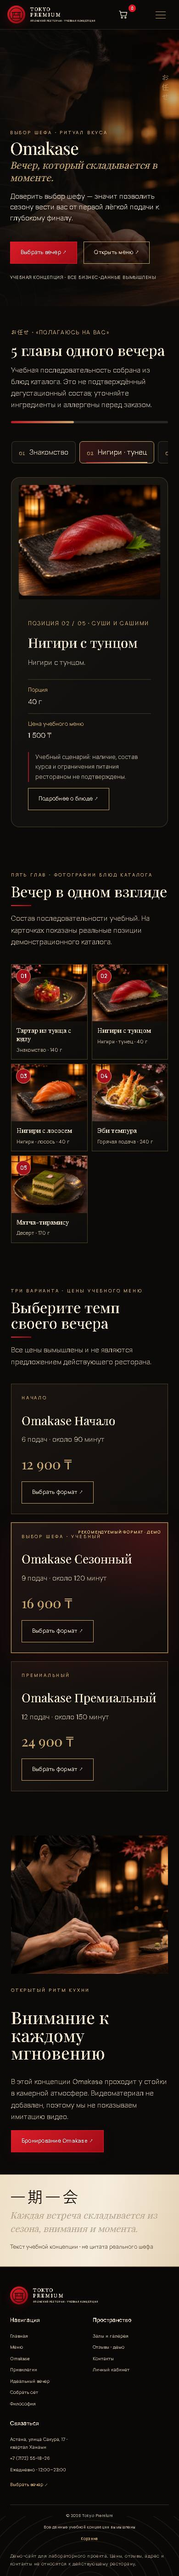
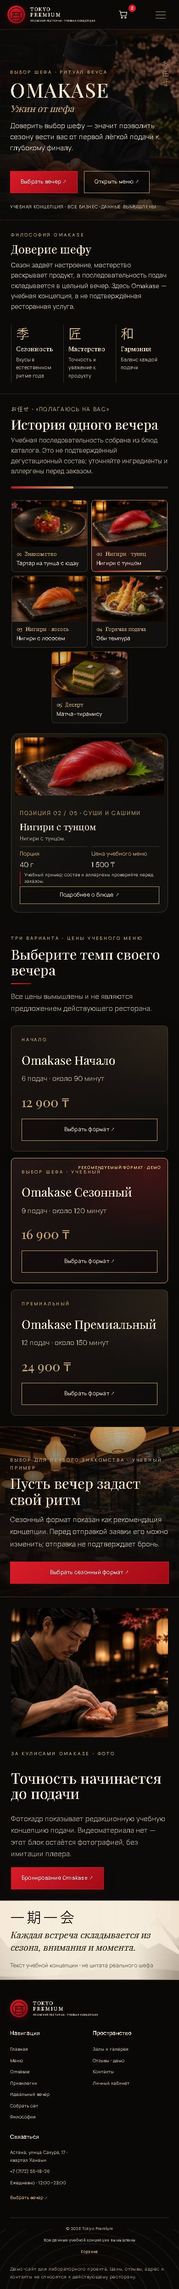
Refine Omakase course story and closing strip

Changed region(s): [[0.0, 0.0, 1.0, 0.9988], [0.7077, 0.9676, 0.7385, 0.9988]]

diff --git a/docs/omakase.html b/docs/omakase.html
@@ -1,7 +1,7 @@
 <!doctype html><html lang="ru"><head><meta charset="utf-8"><meta name="viewport" content="width=device-width, initial-scale=1"><meta name="description" content="Дегустационный вечер Omakase в учебной концепции Tokyo Premium."><meta name="theme-color" content="#0b0a09"><meta property="og:title" content="Omakase — Tokyo Premium"><meta property="og:description" content="Дегустационный вечер Omakase в учебной концепции Tokyo Premium."><meta property="og:type" content="website"><meta property="og:image" content="assets/generated/omakase-chef-panorama-1920.webp"><meta name="twitter:card" content="summary_large_image"><meta name="twitter:image" content="assets/generated/omakase-chef-panorama-1920.webp"><title>Omakase — Tokyo Premium</title><style id="tp20-view-transition">@media (prefers-reduced-motion: no-preference){@view-transition{navigation:auto}::view-transition-old(root){animation:tp20-page-out 130ms ease both}::view-transition-new(root){animation:tp20-page-in 220ms cubic-bezier(.2,.65,.25,1) both}@keyframes tp20-page-out{to{opacity:0}}@keyframes tp20-page-in{from{opacity:0}to{opacity:1}}}</style><link rel="preconnect" href="https://fonts.googleapis.com"><link rel="preconnect" href="https://fonts.gstatic.com" crossorigin><link href="https://fonts.googleapis.com/css2?family=DM+Sans:wght@400;500;600&family=Manrope:wght@400;500;600;700&family=Playfair+Display:wght@400;500;600&display=swap" rel="stylesheet"><link rel="stylesheet" href="luxury.css"><link rel="stylesheet" href="editorial.css"><link rel="stylesheet" href="premium.css"><link rel="stylesheet" href="luxury-refinements.css"><link rel="stylesheet" href="tokyo20.css"><link rel="stylesheet" href="experience-ui.css"></head><body><header class="site-header"><a class="wordmark" href="index.html" aria-label="Tokyo Premium — главная"><span class="brand-emblem" aria-hidden="true"><svg viewBox="0 0 48 48" fill="none"><circle cx="24" cy="24" r="21"/><path d="M10 17h28M13 17v19m22-19v19M10 36h28M18 17v7m12-7v7M15 26h18"/></svg></span><span class="brand-type">TOKYO <i>PREMIUM</i><small>ЯПОНСКИЙ РЕСТОРАН · УЧЕБНАЯ КОНЦЕПЦИЯ</small></span></a><nav class="main-nav" id="site-navigation" aria-label="Основная навигация" aria-hidden="true" inert><a class="" href="index.html">Главная</a><a class="" href="menu.html">Меню</a><a class="active" href="omakase.html">Omakase</a><a class="" href="offers.html">Привилегии</a><a href="about.html">Философия</a><a class="" href="gallery.html">Пространство</a><a href="reviews.html">Отзывы</a><a class="" href="contacts.html">Контакты</a><div class="mobile-nav-utilities" aria-label="Быстрые действия"><a href="booking.html">Бронирование <span aria-hidden="true">↗</span></a><a href="offers.html">Привилегии и акции <span aria-hidden="true">↗</span></a><a href="perfect-evening.html">Идеальный вечер <span aria-hidden="true">↗</span></a><a href="set-builder.html">Собрать сет <span aria-hidden="true">↗</span></a><a href="cart.html">Корзина <span class="mobile-cart-count" aria-hidden="true">0</span></a><a href="account.html">Личный кабинет</a></div></nav><div class="header-actions"><a class="header-icon" href="account.html" aria-label="Личный кабинет"><svg viewBox="0 0 24 24" aria-hidden="true"><circle cx="12" cy="8" r="4"/><path d="M4 21c.7-4 3.3-6 8-6s7.3 2 8 6"/></svg></a><a class="header-icon header-cart-link" href="cart.html" aria-label="Корзина"><svg viewBox="0 0 24 24" aria-hidden="true"><path d="M3 4h2l2.5 11h10.8l2-8H6"/><circle cx="9" cy="19" r="1.5"/><circle cx="17" cy="19" r="1.5"/></svg><span class="header-cart-count" aria-hidden="true">0</span></a></div><a class="header-cta" href="booking.html">Бронировать <span aria-hidden="true">↗</span></a><button class="mobile-menu" type="button" aria-controls="site-navigation" aria-label="Открыть меню" aria-expanded="false">Меню</button></header><main class="editorial-page">
 <section class="editorial-hero omakase-hero"><img class="editorial-hero-photo" src="assets/generated/omakase-chef-panorama-1920.webp" srcset="assets/generated/omakase-chef-panorama-640.webp 640w, assets/generated/omakase-chef-panorama-1024.webp 1024w, assets/generated/omakase-chef-panorama-1920.webp 1920w" sizes="100vw" width="1920" height="640" fetchpriority="high" alt="Шеф готовит нигири для дегустационного меню в камерном японском ресторане"><div class="editorial-hero-shade"></div><div class="editorial-kanji" lang="ja">お任せ</div><div class="editorial-hero-copy"><div class="kicker">ВЫБОР ШЕФА · РИТУАЛ ВКУСА</div><h1>Omakase</h1><p class="editorial-sub">Ужин от шефа</p><p>Доверить выбор шефу — значит позволить сезону вести вас от первой лёгкой подачи к глубокому финалу.</p><div class="button-row"><a class="button" href="booking.html">Выбрать вечер ↗</a><a class="button secondary" href="menu.html">Открыть меню ↗</a></div><span class="school-note">Учебная концепция · все бизнес-данные вымышлены</span></div></section>
 <section class="section dark omakase-philosophy-strip" aria-labelledby="omakase-philosophy-title"><div class="omakase-philosophy-copy"><div class="kicker">Философия Omakase</div><h2 id="omakase-philosophy-title">Доверие шефу</h2><p>Сезон задаёт настроение, мастерство раскрывает продукт, а последовательность подач складывается в цельный вечер. Здесь Omakase — учебная концепция, а не подтверждённая ресторанная услуга.</p></div><div class="omakase-principles" aria-label="Принципы дегустационной концепции"><article><span lang="ja" aria-hidden="true">季</span><h3>Сезонность</h3><p>Вкусы в естественном ритме года</p></article><article><span lang="ja" aria-hidden="true">匠</span><h3>Мастерство</h3><p>Точность и уважение к продукту</p></article><article><span lang="ja" aria-hidden="true">和</span><h3>Гармония</h3><p>Баланс каждой подачи</p></article></div></section>
-<section class="section tp20-omakase-experience" data-tp-omakase aria-label="Интерактивная история Omakase"><div class="tp20-course-heading"><div><div class="kicker">お任せ · «полагаюсь на вас»</div><h2>История одного вечера</h2><p>Учебная последовательность собрана из блюд каталога. Это не подтверждённый дегустационный состав; уточняйте ингредиенты и аллергены перед заказом.</p></div><div class="tp20-course-progress" data-tp-omakase-progress aria-label="Прогресс знакомства с меню"><span></span></div></div><div class="tp20-course-tabs" role="tablist" aria-label="Позиции учебной последовательности"><button type="button" id="tp-omakase-tab-1" data-tp-course data-step="1" aria-controls="tp-omakase-panel-1" aria-selected="true" aria-label="Позиция 01: Знакомство — Тартар из тунца с юдзу"><img src="assets/food/12-tuna-tartare-yuzu.webp" alt="" aria-hidden="true" loading="lazy" decoding="async"><span class="tp20-course-tab-copy"><span class="tp20-course-tab-stage"><span>01</span> Знакомство</span><strong>Тартар из тунца с юдзу</strong></span></button><button type="button" id="tp-omakase-tab-2" data-tp-course data-step="2" aria-controls="tp-omakase-panel-2" aria-selected="false" aria-label="Позиция 02: Нигири · тунец — Нигири с тунцом"><img src="assets/food/06-nigiri-tuna.webp" alt="" aria-hidden="true" loading="lazy" decoding="async"><span class="tp20-course-tab-copy"><span class="tp20-course-tab-stage"><span>02</span> Нигири · тунец</span><strong>Нигири с тунцом</strong></span></button><button type="button" id="tp-omakase-tab-3" data-tp-course data-step="3" aria-controls="tp-omakase-panel-3" aria-selected="false" aria-label="Позиция 03: Нигири · лосось — Нигири с лососем"><img src="assets/food/03-nigiri-salmon.webp" alt="" aria-hidden="true" loading="lazy" decoding="async"><span class="tp20-course-tab-copy"><span class="tp20-course-tab-stage"><span>03</span> Нигири · лосось</span><strong>Нигири с лососем</strong></span></button><button type="button" id="tp-omakase-tab-4" data-tp-course data-step="4" aria-controls="tp-omakase-panel-4" aria-selected="false" aria-label="Позиция 04: Горячая подача — Эби темпура"><img src="assets/food/15-ebi-tempura.webp" alt="" aria-hidden="true" loading="lazy" decoding="async"><span class="tp20-course-tab-copy"><span class="tp20-course-tab-stage"><span>04</span> Горячая подача</span><strong>Эби темпура</strong></span></button><button type="button" id="tp-omakase-tab-5" data-tp-course data-step="5" aria-controls="tp-omakase-panel-5" aria-selected="false" aria-label="Позиция 05: Десерт — Матча-тирамису"><img src="assets/food/19-matcha-tiramisu.webp" alt="" aria-hidden="true" loading="lazy" decoding="async"><span class="tp20-course-tab-copy"><span class="tp20-course-tab-stage"><span>05</span> Десерт</span><strong>Матча-тирамису</strong></span></button></div><div class="tp20-course-panels"><article class="tp20-course-panel" id="tp-omakase-panel-1" data-tp-course-panel data-step="1" ><div class="tp20-course-photo"><img src="assets/food/12-tuna-tartare-yuzu.webp" srcset="" alt="Тартар из тунца с юдзу — демонстрационная фотография блюда" loading="eager" decoding="async"></div><div class="tp20-course-story"><span class="kicker">ПОЗИЦИЯ 01 / 05 · Закуски</span><h3>Тартар из тунца с юдзу</h3><p>Тунец ахи, понзу с юдзу, зелёное яблоко и хрустящий рис — прохладная закуска с чистым цитрусовым финалом.</p><dl><div><dt>Порция</dt><dd>140 г</dd></div><div><dt>Цена учебного меню</dt><dd>4 900 ₸</dd></div></dl><p class="tp20-course-note">Учебный сценарий: наличие, состав курса и ограничения питания рестораном не подтверждены.</p><a class="button secondary" href="dish-12.html">Подробнее о блюде ↗</a></div></article><article class="tp20-course-panel" id="tp-omakase-panel-2" data-tp-course-panel data-step="2" hidden><div class="tp20-course-photo"><img src="assets/food/06-nigiri-tuna.webp" srcset="" alt="Нигири с тунцом — демонстрационная фотография блюда" loading="lazy" decoding="async"></div><div class="tp20-course-story"><span class="kicker">ПОЗИЦИЯ 02 / 05 · Суши и сашими</span><h3>Нигири с тунцом</h3><p>Нигири с тунцом.</p><dl><div><dt>Порция</dt><dd>40 г</dd></div><div><dt>Цена учебного меню</dt><dd>1 500 ₸</dd></div></dl><p class="tp20-course-note">Учебный сценарий: наличие, состав курса и ограничения питания рестораном не подтверждены.</p><a class="button secondary" href="dish-6.html">Подробнее о блюде ↗</a></div></article><article class="tp20-course-panel" id="tp-omakase-panel-3" data-tp-course-panel data-step="3" hidden><div class="tp20-course-photo"><img src="assets/food/03-nigiri-salmon.webp" srcset="" alt="Нигири с лососем — демонстрационная фотография блюда" loading="lazy" decoding="async"></div><div class="tp20-course-story"><span class="kicker">ПОЗИЦИЯ 03 / 05 · Суши и сашими</span><h3>Нигири с лососем</h3><p>Классические нигири с лососем.</p><dl><div><dt>Порция</dt><dd>40 г</dd></div><div><dt>Цена учебного меню</dt><dd>1 200 ₸</dd></div></dl><p class="tp20-course-note">Учебный сценарий: наличие, состав курса и ограничения питания рестораном не подтверждены.</p><a class="button secondary" href="dish-3.html">Подробнее о блюде ↗</a></div></article><article class="tp20-course-panel" id="tp-omakase-panel-4" data-tp-course-panel data-step="4" hidden><div class="tp20-course-photo"><img src="assets/food/15-ebi-tempura.webp" srcset="" alt="Эби темпура — демонстрационная фотография блюда" loading="lazy" decoding="async"></div><div class="tp20-course-story"><span class="kicker">ПОЗИЦИЯ 04 / 05 · Горячее</span><h3>Эби темпура</h3><p>Тигровые креветки в лёгком тесте, сезонные овощи и тэнцую с дайконом.</p><dl><div><dt>Порция</dt><dd>240 г</dd></div><div><dt>Цена учебного меню</dt><dd>5 600 ₸</dd></div></dl><p class="tp20-course-note">Учебный сценарий: наличие, состав курса и ограничения питания рестораном не подтверждены.</p><a class="button secondary" href="dish-15.html">Подробнее о блюде ↗</a></div></article><article class="tp20-course-panel" id="tp-omakase-panel-5" data-tp-course-panel data-step="5" hidden><div class="tp20-course-photo"><img src="assets/food/19-matcha-tiramisu.webp" srcset="" alt="Матча-тирамису — демонстрационная фотография блюда" loading="lazy" decoding="async"></div><div class="tp20-course-story"><span class="kicker">ПОЗИЦИЯ 05 / 05 · Десерты</span><h3>Матча-тирамису</h3><p>Крем маскарпоне, савоярди с ходзича и пудра из церемониальной матчи.</p><dl><div><dt>Порция</dt><dd>170 г</dd></div><div><dt>Цена учебного меню</dt><dd>3 600 ₸</dd></div></dl><p class="tp20-course-note">Учебный сценарий: наличие, состав курса и ограничения питания рестораном не подтверждены.</p><a class="button secondary" href="dish-19.html">Подробнее о блюде ↗</a></div></article></div></section>
+<section class="section tp20-omakase-experience" data-tp-omakase aria-label="Интерактивная история Omakase"><div class="tp20-course-heading"><div><div class="kicker">お任せ · «полагаюсь на вас»</div><h2>История одного вечера</h2><p>Учебная последовательность собрана из блюд каталога. Это не подтверждённый дегустационный состав; уточняйте ингредиенты и аллергены перед заказом.</p></div><div class="tp20-course-progress" data-tp-omakase-progress aria-label="Прогресс знакомства с меню"><span></span></div></div><div class="tp20-course-tabs" role="tablist" aria-label="Позиции учебной последовательности"><button type="button" id="tp-omakase-tab-1" data-tp-course data-step="1" aria-controls="tp-omakase-panel-1" aria-selected="true" aria-label="Позиция 01: Знакомство — Тартар из тунца с юдзу"><img src="assets/food/12-tuna-tartare-yuzu.webp" alt="" aria-hidden="true" loading="lazy" decoding="async"><span class="tp20-course-tab-copy"><span class="tp20-course-tab-stage"><span>01</span> Знакомство</span><strong>Тартар из тунца с юдзу</strong></span></button><button type="button" id="tp-omakase-tab-2" data-tp-course data-step="2" aria-controls="tp-omakase-panel-2" aria-selected="false" aria-label="Позиция 02: Нигири · тунец — Нигири с тунцом"><img src="assets/food/06-nigiri-tuna.webp" alt="" aria-hidden="true" loading="lazy" decoding="async"><span class="tp20-course-tab-copy"><span class="tp20-course-tab-stage"><span>02</span> Нигири · тунец</span><strong>Нигири с тунцом</strong></span></button><button type="button" id="tp-omakase-tab-3" data-tp-course data-step="3" aria-controls="tp-omakase-panel-3" aria-selected="false" aria-label="Позиция 03: Нигири · лосось — Нигири с лососем"><img src="assets/food/03-nigiri-salmon.webp" alt="" aria-hidden="true" loading="lazy" decoding="async"><span class="tp20-course-tab-copy"><span class="tp20-course-tab-stage"><span>03</span> Нигири · лосось</span><strong>Нигири с лососем</strong></span></button><button type="button" id="tp-omakase-tab-4" data-tp-course data-step="4" aria-controls="tp-omakase-panel-4" aria-selected="false" aria-label="Позиция 04: Горячая подача — Эби темпура"><img src="assets/food/15-ebi-tempura.webp" alt="" aria-hidden="true" loading="lazy" decoding="async"><span class="tp20-course-tab-copy"><span class="tp20-course-tab-stage"><span>04</span> Горячая подача</span><strong>Эби темпура</strong></span></button><button type="button" id="tp-omakase-tab-5" data-tp-course data-step="5" aria-controls="tp-omakase-panel-5" aria-selected="false" aria-label="Позиция 05: Десерт — Матча-тирамису"><img src="assets/food/19-matcha-tiramisu.webp" alt="" aria-hidden="true" loading="lazy" decoding="async"><span class="tp20-course-tab-copy"><span class="tp20-course-tab-stage"><span>05</span> Десерт</span><strong>Матча-тирамису</strong></span></button></div><div class="tp20-course-panels"><article class="tp20-course-panel" id="tp-omakase-panel-1" data-tp-course-panel data-step="1" ><div class="tp20-course-photo"><img src="assets/food/12-tuna-tartare-yuzu.webp" srcset="" alt="Тартар из тунца с юдзу — демонстрационная фотография блюда" loading="eager" decoding="async"></div><div class="tp20-course-story"><span class="kicker">ПОЗИЦИЯ 01 / 05 · Закуски</span><h3>Тартар из тунца с юдзу</h3><p>Тунец ахи, понзу с юдзу, зелёное яблоко и хрустящий рис — прохладная закуска с чистым цитрусовым финалом.</p><dl><div><dt>Порция</dt><dd>140 г</dd></div><div><dt>Цена учебного меню</dt><dd>4 900 ₸</dd></div></dl><p class="tp20-course-note">Учебный пример; состав и аллергены проверяйте перед заказом.</p><a class="button secondary" href="dish-12.html">Подробнее о блюде ↗</a></div></article><article class="tp20-course-panel" id="tp-omakase-panel-2" data-tp-course-panel data-step="2" hidden><div class="tp20-course-photo"><img src="assets/food/06-nigiri-tuna.webp" srcset="" alt="Нигири с тунцом — демонстрационная фотография блюда" loading="lazy" decoding="async"></div><div class="tp20-course-story"><span class="kicker">ПОЗИЦИЯ 02 / 05 · Суши и сашими</span><h3>Нигири с тунцом</h3><p>Нигири с тунцом.</p><dl><div><dt>Порция</dt><dd>40 г</dd></div><div><dt>Цена учебного меню</dt><dd>1 500 ₸</dd></div></dl><p class="tp20-course-note">Учебный пример; состав и аллергены проверяйте перед заказом.</p><a class="button secondary" href="dish-6.html">Подробнее о блюде ↗</a></div></article><article class="tp20-course-panel" id="tp-omakase-panel-3" data-tp-course-panel data-step="3" hidden><div class="tp20-course-photo"><img src="assets/food/03-nigiri-salmon.webp" srcset="" alt="Нигири с лососем — демонстрационная фотография блюда" loading="lazy" decoding="async"></div><div class="tp20-course-story"><span class="kicker">ПОЗИЦИЯ 03 / 05 · Суши и сашими</span><h3>Нигири с лососем</h3><p>Классические нигири с лососем.</p><dl><div><dt>Порция</dt><dd>40 г</dd></div><div><dt>Цена учебного меню</dt><dd>1 200 ₸</dd></div></dl><p class="tp20-course-note">Учебный пример; состав и аллергены проверяйте перед заказом.</p><a class="button secondary" href="dish-3.html">Подробнее о блюде ↗</a></div></article><article class="tp20-course-panel" id="tp-omakase-panel-4" data-tp-course-panel data-step="4" hidden><div class="tp20-course-photo"><img src="assets/food/15-ebi-tempura.webp" srcset="" alt="Эби темпура — демонстрационная фотография блюда" loading="lazy" decoding="async"></div><div class="tp20-course-story"><span class="kicker">ПОЗИЦИЯ 04 / 05 · Горячее</span><h3>Эби темпура</h3><p>Тигровые креветки в лёгком тесте, сезонные овощи и тэнцую с дайконом.</p><dl><div><dt>Порция</dt><dd>240 г</dd></div><div><dt>Цена учебного меню</dt><dd>5 600 ₸</dd></div></dl><p class="tp20-course-note">Учебный пример; состав и аллергены проверяйте перед заказом.</p><a class="button secondary" href="dish-15.html">Подробнее о блюде ↗</a></div></article><article class="tp20-course-panel" id="tp-omakase-panel-5" data-tp-course-panel data-step="5" hidden><div class="tp20-course-photo"><img src="assets/food/19-matcha-tiramisu.webp" srcset="" alt="Матча-тирамису — демонстрационная фотография блюда" loading="lazy" decoding="async"></div><div class="tp20-course-story"><span class="kicker">ПОЗИЦИЯ 05 / 05 · Десерты</span><h3>Матча-тирамису</h3><p>Крем маскарпоне, савоярди с ходзича и пудра из церемониальной матчи.</p><dl><div><dt>Порция</dt><dd>170 г</dd></div><div><dt>Цена учебного меню</dt><dd>3 600 ₸</dd></div></dl><p class="tp20-course-note">Учебный пример; состав и аллергены проверяйте перед заказом.</p><a class="button secondary" href="dish-19.html">Подробнее о блюде ↗</a></div></article></div></section>
 <section class="section dark" aria-labelledby="omakase-tiers-title"><div class="editorial-heading"><div class="kicker">Три варианта · цены учебного меню</div><h2 id="omakase-tiers-title">Выберите темп своего вечера</h2><p>Все цены вымышлены и не являются предложением действующего ресторана.</p></div><div class="experience-tiers"><article class="tier-card"><span class="kicker">Начало</span><h3>Omakase Начало</h3><p>6 подач · около 90 минут</p><strong>12 900 ₸</strong><a class="button secondary" data-tp-omakase-select data-format="Начало" href="booking.html?format=%D0%9D%D0%B0%D1%87%D0%B0%D0%BB%D0%BE">Выбрать формат ↗</a></article><article class="tier-card tier-card-featured"><span class="kicker">ВЫБОР ШЕФА · УЧЕБНЫЙ</span><h3>Omakase Сезонный</h3><p>9 подач · около 120 минут</p><strong>16 900 ₸</strong><a class="button secondary" data-tp-omakase-select data-format="Сезонный" href="booking.html?format=%D0%A1%D0%B5%D0%B7%D0%BE%D0%BD%D0%BD%D1%8B%D0%B9">Выбрать формат ↗</a></article><article class="tier-card"><span class="kicker">Премиальный</span><h3>Omakase Премиальный</h3><p>12 подач · около 150 минут</p><strong>24 900 ₸</strong><a class="button secondary" data-tp-omakase-select data-format="Премиальный" href="booking.html?format=%D0%9F%D1%80%D0%B5%D0%BC%D0%B8%D0%B0%D0%BB%D1%8C%D0%BD%D1%8B%D0%B9">Выбрать формат ↗</a></article></div></section>
 <section class="omakase-reservation-band" aria-labelledby="omakase-reservation-title"><img src="assets/generated/room-main-hall.webp" alt="Вечерняя сервировка в основном зале учебной концепции" loading="lazy" decoding="async"><div class="omakase-reservation-copy"><div class="kicker">Выбор для первого знакомства · учебный пример</div><h2 id="omakase-reservation-title">Пусть вечер задаст свой ритм</h2><p>Сезонный формат показан как рекомендация концепции. Перед отправкой заявки его можно изменить; отправка не подтверждает бронь.</p><a class="button" href="booking.html?format=Сезонный">Выбрать сезонный формат ↗</a></div></section>
 <section class="section image-story"><img src="assets/generated/chef-at-counter.webp" srcset="" alt="Шеф завершает подачу дегустационного меню, иллюстрация учебной концепции" loading="lazy" decoding="async"><div><div class="kicker">За кулисами Omakase · фото</div><h2>Точность начинается до подачи</h2><p>Фотокадр показывает редакционную учебную концепцию подачи. Видеоматериала нет — этот блок остаётся фотографией, без имитации плеера.</p><a class="button" href="booking.html?format=Сезонный">Бронирование Omakase ↗</a></div></section>

diff --git a/docs/luxury-refinements.css b/docs/luxury-refinements.css
@@ -257,6 +257,27 @@
 .omakase-reservation-copy .button{margin-top:10px}
 @media(max-width:800px){.omakase-philosophy-strip{grid-template-columns:1fr;gap:25px}.omakase-reservation-copy{width:min(620px,76%);margin-left:6vw}.omakase-reservation-band{min-height:330px}.omakase-reservation-band:after{background:linear-gradient(90deg,rgba(9,8,7,.72),rgba(10,9,8,.9) 58%,rgba(16,13,11,.93))}}
 @media(max-width:560px){.omakase-philosophy-strip{gap:18px}.omakase-principles article{padding:6px 10px}.omakase-principles article>span{font-size:1.8rem;margin-bottom:8px}.omakase-principles h3{font-size:.9rem}.omakase-principles p{font-size:.68rem}.omakase-reservation-band{min-height:370px;align-items:flex-end}.omakase-reservation-band>img{object-position:65% center}.omakase-reservation-band:after{background:linear-gradient(0deg,rgba(9,8,7,.96),rgba(10,9,8,.82) 57%,rgba(16,13,11,.2))}.omakase-reservation-copy{width:auto;margin:0;padding:24px 22px 28px}.omakase-reservation-copy h2{font-size:clamp(1.85rem,8vw,2.35rem)}.omakase-reservation-copy .button{width:100%}}
+
+/* Keep the interactive Omakase detail, but let the tasting cards and set choices
+   retain the visual rhythm of the approved concept instead of repeating a second
+   full-size dish feature between them. */
+.editorial-page:has(.omakase-hero)>.tp20-omakase-experience .tp20-course-panel{grid-template-columns:minmax(150px,.38fr) minmax(0,1.62fr);align-items:center;padding:10px}
+.editorial-page:has(.omakase-hero)>.tp20-omakase-experience .tp20-course-photo,
+.editorial-page:has(.omakase-hero)>.tp20-omakase-experience .tp20-course-photo img{height:184px;min-height:184px;max-height:184px}
+.editorial-page:has(.omakase-hero)>.tp20-omakase-experience .tp20-course-story{display:grid;grid-template-columns:minmax(0,1fr) minmax(180px,.62fr);grid-template-areas:"meta meta" "title title" "description description" "facts note" "facts link";align-items:start;gap:5px 20px;padding:14px 20px}
+.editorial-page:has(.omakase-hero)>.tp20-omakase-experience .tp20-course-story>.kicker{grid-area:meta}
+.editorial-page:has(.omakase-hero)>.tp20-omakase-experience .tp20-course-story>h3{grid-area:title;margin:3px 0;font-size:clamp(1.25rem,1.7vw,1.7rem);line-height:1.13}
+.editorial-page:has(.omakase-hero)>.tp20-omakase-experience .tp20-course-story>p:not(.tp20-course-note){grid-area:description;margin:0 0 3px;font-size:.77rem;line-height:1.4}
+.editorial-page:has(.omakase-hero)>.tp20-omakase-experience .tp20-course-story>dl{grid-area:facts;align-self:stretch;gap:4px;margin:0}
+.editorial-page:has(.omakase-hero)>.tp20-omakase-experience .tp20-course-story>dl>div{gap:8px;padding-top:5px}
+.editorial-page:has(.omakase-hero)>.tp20-omakase-experience .tp20-course-story>.tp20-course-note{grid-area:note;align-self:end;margin:0;padding-left:8px;font-size:.64rem;line-height:1.35}
+.editorial-page:has(.omakase-hero)>.tp20-omakase-experience .tp20-course-story>.button{grid-area:link;justify-self:start;min-height:38px;margin:0;padding:7px 13px;font-size:.72rem}
+.omakase-quote{position:relative;isolation:isolate;background-color:#eee0c7;background-image:linear-gradient(90deg,rgba(242,230,208,.28),rgba(247,237,221,.88) 24%,rgba(247,237,221,.9) 76%,rgba(230,215,190,.2)),url('assets/generated/omakase-quote-landscape.svg');background-position:center;background-size:cover}
+.omakase-quote>span,.omakase-quote>p,.omakase-quote>small{position:relative;z-index:1}
+.omakase-quote>p{color:#382c22}
+@media(max-width:900px){.editorial-page:has(.omakase-hero)>.tp20-omakase-experience .tp20-course-panel{grid-template-columns:minmax(130px,.36fr) minmax(0,1.64fr)}.editorial-page:has(.omakase-hero)>.tp20-omakase-experience .tp20-course-story{grid-template-columns:minmax(0,1fr) minmax(145px,.58fr);gap:5px 12px;padding:12px}}
+@media(max-width:700px){.editorial-page:has(.omakase-hero)>.tp20-omakase-experience .tp20-course-panel{grid-template-columns:minmax(0,1fr);padding:8px}.editorial-page:has(.omakase-hero)>.tp20-omakase-experience .tp20-course-photo,.editorial-page:has(.omakase-hero)>.tp20-omakase-experience .tp20-course-photo img{height:126px;min-height:126px;max-height:126px}.editorial-page:has(.omakase-hero)>.tp20-omakase-experience .tp20-course-story{grid-template-columns:minmax(0,1fr);grid-template-areas:"meta" "title" "description" "facts" "note" "link";gap:4px;padding:10px}.editorial-page:has(.omakase-hero)>.tp20-omakase-experience .tp20-course-story>dl{grid-template-columns:repeat(2,minmax(0,1fr));gap:8px}.editorial-page:has(.omakase-hero)>.tp20-omakase-experience .tp20-course-story>dl>div{grid-template-columns:1fr;gap:3px}.editorial-page:has(.omakase-hero)>.tp20-omakase-experience .tp20-course-story>.button{justify-self:stretch}.omakase-quote{grid-template-columns:1fr;gap:8px;padding-inline:22px!important}.omakase-quote>span{font-size:2rem}.omakase-quote p{font-size:1.2rem}.omakase-quote small{grid-column:1}}
+@media(prefers-reduced-motion:reduce){.editorial-page:has(.omakase-hero)>.tp20-omakase-experience .tp20-course-tabs button,.editorial-page:has(.omakase-hero)>.tp20-omakase-experience .tp20-course-tabs button>img{transition:none}}
 /* Keep the mobile checkout path short while preserving an accessible optional note. */
 .cart-comment-disclosure{border-top:1px solid rgba(199,167,102,.2);padding-top:11px;margin-top:4px}
 .cart-comment-disclosure>summary{display:flex;align-items:center;justify-content:space-between;gap:12px;min-height:42px;cursor:pointer;color:#ead9bd;font-size:.88rem;list-style:none}

diff --git a/luxury-refinements.css b/luxury-refinements.css
@@ -257,6 +257,27 @@
 .omakase-reservation-copy .button{margin-top:10px}
 @media(max-width:800px){.omakase-philosophy-strip{grid-template-columns:1fr;gap:25px}.omakase-reservation-copy{width:min(620px,76%);margin-left:6vw}.omakase-reservation-band{min-height:330px}.omakase-reservation-band:after{background:linear-gradient(90deg,rgba(9,8,7,.72),rgba(10,9,8,.9) 58%,rgba(16,13,11,.93))}}
 @media(max-width:560px){.omakase-philosophy-strip{gap:18px}.omakase-principles article{padding:6px 10px}.omakase-principles article>span{font-size:1.8rem;margin-bottom:8px}.omakase-principles h3{font-size:.9rem}.omakase-principles p{font-size:.68rem}.omakase-reservation-band{min-height:370px;align-items:flex-end}.omakase-reservation-band>img{object-position:65% center}.omakase-reservation-band:after{background:linear-gradient(0deg,rgba(9,8,7,.96),rgba(10,9,8,.82) 57%,rgba(16,13,11,.2))}.omakase-reservation-copy{width:auto;margin:0;padding:24px 22px 28px}.omakase-reservation-copy h2{font-size:clamp(1.85rem,8vw,2.35rem)}.omakase-reservation-copy .button{width:100%}}
+
+/* Keep the interactive Omakase detail, but let the tasting cards and set choices
+   retain the visual rhythm of the approved concept instead of repeating a second
+   full-size dish feature between them. */
+.editorial-page:has(.omakase-hero)>.tp20-omakase-experience .tp20-course-panel{grid-template-columns:minmax(150px,.38fr) minmax(0,1.62fr);align-items:center;padding:10px}
+.editorial-page:has(.omakase-hero)>.tp20-omakase-experience .tp20-course-photo,
+.editorial-page:has(.omakase-hero)>.tp20-omakase-experience .tp20-course-photo img{height:184px;min-height:184px;max-height:184px}
+.editorial-page:has(.omakase-hero)>.tp20-omakase-experience .tp20-course-story{display:grid;grid-template-columns:minmax(0,1fr) minmax(180px,.62fr);grid-template-areas:"meta meta" "title title" "description description" "facts note" "facts link";align-items:start;gap:5px 20px;padding:14px 20px}
+.editorial-page:has(.omakase-hero)>.tp20-omakase-experience .tp20-course-story>.kicker{grid-area:meta}
+.editorial-page:has(.omakase-hero)>.tp20-omakase-experience .tp20-course-story>h3{grid-area:title;margin:3px 0;font-size:clamp(1.25rem,1.7vw,1.7rem);line-height:1.13}
+.editorial-page:has(.omakase-hero)>.tp20-omakase-experience .tp20-course-story>p:not(.tp20-course-note){grid-area:description;margin:0 0 3px;font-size:.77rem;line-height:1.4}
+.editorial-page:has(.omakase-hero)>.tp20-omakase-experience .tp20-course-story>dl{grid-area:facts;align-self:stretch;gap:4px;margin:0}
+.editorial-page:has(.omakase-hero)>.tp20-omakase-experience .tp20-course-story>dl>div{gap:8px;padding-top:5px}
+.editorial-page:has(.omakase-hero)>.tp20-omakase-experience .tp20-course-story>.tp20-course-note{grid-area:note;align-self:end;margin:0;padding-left:8px;font-size:.64rem;line-height:1.35}
+.editorial-page:has(.omakase-hero)>.tp20-omakase-experience .tp20-course-story>.button{grid-area:link;justify-self:start;min-height:38px;margin:0;padding:7px 13px;font-size:.72rem}
+.omakase-quote{position:relative;isolation:isolate;background-color:#eee0c7;background-image:linear-gradient(90deg,rgba(242,230,208,.28),rgba(247,237,221,.88) 24%,rgba(247,237,221,.9) 76%,rgba(230,215,190,.2)),url('assets/generated/omakase-quote-landscape.svg');background-position:center;background-size:cover}
+.omakase-quote>span,.omakase-quote>p,.omakase-quote>small{position:relative;z-index:1}
+.omakase-quote>p{color:#382c22}
+@media(max-width:900px){.editorial-page:has(.omakase-hero)>.tp20-omakase-experience .tp20-course-panel{grid-template-columns:minmax(130px,.36fr) minmax(0,1.64fr)}.editorial-page:has(.omakase-hero)>.tp20-omakase-experience .tp20-course-story{grid-template-columns:minmax(0,1fr) minmax(145px,.58fr);gap:5px 12px;padding:12px}}
+@media(max-width:700px){.editorial-page:has(.omakase-hero)>.tp20-omakase-experience .tp20-course-panel{grid-template-columns:minmax(0,1fr);padding:8px}.editorial-page:has(.omakase-hero)>.tp20-omakase-experience .tp20-course-photo,.editorial-page:has(.omakase-hero)>.tp20-omakase-experience .tp20-course-photo img{height:126px;min-height:126px;max-height:126px}.editorial-page:has(.omakase-hero)>.tp20-omakase-experience .tp20-course-story{grid-template-columns:minmax(0,1fr);grid-template-areas:"meta" "title" "description" "facts" "note" "link";gap:4px;padding:10px}.editorial-page:has(.omakase-hero)>.tp20-omakase-experience .tp20-course-story>dl{grid-template-columns:repeat(2,minmax(0,1fr));gap:8px}.editorial-page:has(.omakase-hero)>.tp20-omakase-experience .tp20-course-story>dl>div{grid-template-columns:1fr;gap:3px}.editorial-page:has(.omakase-hero)>.tp20-omakase-experience .tp20-course-story>.button{justify-self:stretch}.omakase-quote{grid-template-columns:1fr;gap:8px;padding-inline:22px!important}.omakase-quote>span{font-size:2rem}.omakase-quote p{font-size:1.2rem}.omakase-quote small{grid-column:1}}
+@media(prefers-reduced-motion:reduce){.editorial-page:has(.omakase-hero)>.tp20-omakase-experience .tp20-course-tabs button,.editorial-page:has(.omakase-hero)>.tp20-omakase-experience .tp20-course-tabs button>img{transition:none}}
 /* Keep the mobile checkout path short while preserving an accessible optional note. */
 .cart-comment-disclosure{border-top:1px solid rgba(199,167,102,.2);padding-top:11px;margin-top:4px}
 .cart-comment-disclosure>summary{display:flex;align-items:center;justify-content:space-between;gap:12px;min-height:42px;cursor:pointer;color:#ead9bd;font-size:.88rem;list-style:none}

diff --git a/pages.php b/pages.php
@@ -108,7 +108,7 @@ foreach($omakasePlan as [$stageLabel,$dishId]) if(isset($allById[$dishId])) $oma
 if(!$omakaseCourses) foreach(array_slice($all,0,5) as $dish) $omakaseCourses[]=['stage'=>$dish['category_name'],'dish'=>$dish];
 ?>
 <section class="section dark omakase-philosophy-strip" aria-labelledby="omakase-philosophy-title"><div class="omakase-philosophy-copy"><div class="kicker">Философия Omakase</div><h2 id="omakase-philosophy-title">Доверие шефу</h2><p>Сезон задаёт настроение, мастерство раскрывает продукт, а последовательность подач складывается в цельный вечер. Здесь Omakase — учебная концепция, а не подтверждённая ресторанная услуга.</p></div><div class="omakase-principles" aria-label="Принципы дегустационной концепции"><article><span lang="ja" aria-hidden="true">季</span><h3>Сезонность</h3><p>Вкусы в естественном ритме года</p></article><article><span lang="ja" aria-hidden="true">匠</span><h3>Мастерство</h3><p>Точность и уважение к продукту</p></article><article><span lang="ja" aria-hidden="true">和</span><h3>Гармония</h3><p>Баланс каждой подачи</p></article></div></section>
-<section class="section tp20-omakase-experience" data-tp-omakase aria-label="Интерактивная история Omakase"><div class="tp20-course-heading"><div><div class="kicker">お任せ · «полагаюсь на вас»</div><h2>История одного вечера</h2><p>Учебная последовательность собрана из блюд каталога. Это не подтверждённый дегустационный состав; уточняйте ингредиенты и аллергены перед заказом.</p></div><div class="tp20-course-progress" data-tp-omakase-progress aria-label="Прогресс знакомства с меню"><span></span></div></div><div class="tp20-course-tabs" role="tablist" aria-label="Позиции учебной последовательности"><?php foreach($omakaseCourses as $i=>$course): $dish=$course['dish']; ?><button type="button" id="tp-omakase-tab-<?=$i+1?>" data-tp-course data-step="<?=$i+1?>" aria-controls="tp-omakase-panel-<?=$i+1?>" aria-selected="<?=$i===0?'true':'false'?>" aria-label="Позиция <?=sprintf('%02d',$i+1)?>: <?=e($course['stage'])?> — <?=e($dish['name'])?>"><img src="<?=e($dish['image_url'])?>" alt="" aria-hidden="true" loading="lazy" decoding="async"><span class="tp20-course-tab-copy"><span class="tp20-course-tab-stage"><span><?=sprintf('%02d',$i+1)?></span> <?=e($course['stage'])?></span><strong><?=e($dish['name'])?></strong></span></button><?php endforeach ?></div><div class="tp20-course-panels"><?php foreach($omakaseCourses as $i=>$course): $dish=$course['dish']; ?><article class="tp20-course-panel" id="tp-omakase-panel-<?=$i+1?>" data-tp-course-panel data-step="<?=$i+1?>" <?=$i===0?'':'hidden'?>><div class="tp20-course-photo"><img src="<?=e($dish['image_url'])?>" srcset="<?=e(image_srcset($dish['image_url']))?>" alt="<?=e($dish['name'])?> — демонстрационная фотография блюда" loading="<?=$i===0?'eager':'lazy'?>" decoding="async"></div><div class="tp20-course-story"><span class="kicker">ПОЗИЦИЯ <?=sprintf('%02d',$i+1)?> / <?=sprintf('%02d',count($omakaseCourses))?> · <?=e($dish['category_name'])?></span><h3><?=e($dish['name'])?></h3><p><?=e($dish['description'])?></p><dl><div><dt>Порция</dt><dd><?=e($dish['weight'])?></dd></div><div><dt>Цена учебного меню</dt><dd><?=ep_price((int)$dish['price'])?> ₸</dd></div></dl><p class="tp20-course-note">Учебный сценарий: наличие, состав курса и ограничения питания рестораном не подтверждены.</p><a class="button secondary" href="pages.php?page=dish&amp;id=<?=(int)$dish['id']?>">Подробнее о блюде ↗</a></div></article><?php endforeach ?></div></section>
+<section class="section tp20-omakase-experience" data-tp-omakase aria-label="Интерактивная история Omakase"><div class="tp20-course-heading"><div><div class="kicker">お任せ · «полагаюсь на вас»</div><h2>История одного вечера</h2><p>Учебная последовательность собрана из блюд каталога. Это не подтверждённый дегустационный состав; уточняйте ингредиенты и аллергены перед заказом.</p></div><div class="tp20-course-progress" data-tp-omakase-progress aria-label="Прогресс знакомства с меню"><span></span></div></div><div class="tp20-course-tabs" role="tablist" aria-label="Позиции учебной последовательности"><?php foreach($omakaseCourses as $i=>$course): $dish=$course['dish']; ?><button type="button" id="tp-omakase-tab-<?=$i+1?>" data-tp-course data-step="<?=$i+1?>" aria-controls="tp-omakase-panel-<?=$i+1?>" aria-selected="<?=$i===0?'true':'false'?>" aria-label="Позиция <?=sprintf('%02d',$i+1)?>: <?=e($course['stage'])?> — <?=e($dish['name'])?>"><img src="<?=e($dish['image_url'])?>" alt="" aria-hidden="true" loading="lazy" decoding="async"><span class="tp20-course-tab-copy"><span class="tp20-course-tab-stage"><span><?=sprintf('%02d',$i+1)?></span> <?=e($course['stage'])?></span><strong><?=e($dish['name'])?></strong></span></button><?php endforeach ?></div><div class="tp20-course-panels"><?php foreach($omakaseCourses as $i=>$course): $dish=$course['dish']; ?><article class="tp20-course-panel" id="tp-omakase-panel-<?=$i+1?>" data-tp-course-panel data-step="<?=$i+1?>" <?=$i===0?'':'hidden'?>><div class="tp20-course-photo"><img src="<?=e($dish['image_url'])?>" srcset="<?=e(image_srcset($dish['image_url']))?>" alt="<?=e($dish['name'])?> — демонстрационная фотография блюда" loading="<?=$i===0?'eager':'lazy'?>" decoding="async"></div><div class="tp20-course-story"><span class="kicker">ПОЗИЦИЯ <?=sprintf('%02d',$i+1)?> / <?=sprintf('%02d',count($omakaseCourses))?> · <?=e($dish['category_name'])?></span><h3><?=e($dish['name'])?></h3><p><?=e($dish['description'])?></p><dl><div><dt>Порция</dt><dd><?=e($dish['weight'])?></dd></div><div><dt>Цена учебного меню</dt><dd><?=ep_price((int)$dish['price'])?> ₸</dd></div></dl><p class="tp20-course-note">Учебный пример; состав и аллергены проверяйте перед заказом.</p><a class="button secondary" href="pages.php?page=dish&amp;id=<?=(int)$dish['id']?>">Подробнее о блюде ↗</a></div></article><?php endforeach ?></div></section>
 <section class="section dark" aria-labelledby="omakase-tiers-title"><div class="editorial-heading"><div class="kicker">Три варианта · цены учебного меню</div><h2 id="omakase-tiers-title">Выберите темп своего вечера</h2><p>Все цены вымышлены и не являются предложением действующего ресторана.</p></div><div class="experience-tiers"><?php foreach([['Начало','6 подач · около 90 минут',12900],['Сезонный','9 подач · около 120 минут',16900],['Премиальный','12 подач · около 150 минут',24900]] as $tier): ?><article class="tier-card<?= $tier[0]==='Сезонный'?' tier-card-featured':'' ?>"><span class="kicker"><?=e($tier[0]==='Сезонный'?'ВЫБОР ШЕФА · УЧЕБНЫЙ':$tier[0])?></span><h3>Omakase <?=e($tier[0])?></h3><p><?=e($tier[1])?></p><strong><?=ep_price($tier[2])?> ₸</strong><a class="button secondary" data-tp-omakase-select data-format="<?=e($tier[0])?>" href="pages.php?page=booking&amp;format=<?=rawurlencode($tier[0])?>">Выбрать формат ↗</a></article><?php endforeach ?></div></section>
 <section class="omakase-reservation-band" aria-labelledby="omakase-reservation-title"><img src="assets/generated/room-main-hall.webp" alt="Вечерняя сервировка в основном зале учебной концепции" loading="lazy" decoding="async"><div class="omakase-reservation-copy"><div class="kicker">Выбор для первого знакомства · учебный пример</div><h2 id="omakase-reservation-title">Пусть вечер задаст свой ритм</h2><p>Сезонный формат показан как рекомендация концепции. Перед отправкой заявки его можно изменить; отправка не подтверждает бронь.</p><a class="button" href="pages.php?page=booking&amp;format=Сезонный">Выбрать сезонный формат ↗</a></div></section>
 <section class="section image-story"><img src="assets/generated/chef-at-counter.webp" srcset="<?=e(image_srcset('assets/generated/chef-at-counter.webp'))?>" alt="Шеф завершает подачу дегустационного меню, иллюстрация учебной концепции" loading="lazy" decoding="async"><div><div class="kicker">За кулисами Omakase · фото</div><h2>Точность начинается до подачи</h2><p>Фотокадр показывает редакционную учебную концепцию подачи. Видеоматериала нет — этот блок остаётся фотографией, без имитации плеера.</p><a class="button" href="pages.php?page=booking&amp;format=Сезонный">Бронирование Omakase ↗</a></div></section>

diff --git a/project-docs/visual-qa/README.md b/project-docs/visual-qa/README.md
@@ -270,3 +270,6 @@ Compact PHP account navigation, active-section accessibility state and server-st
 ## 2026-11-17 PHP account density pass
 
 `2.0-visual-fidelity/account-php-{desktop,mobile}.jpg` shows the PHP dashboard after tightening the hero and empty history states. The focused account visual-fidelity regression passed in PHP and static modes, including the desktop two-by-two metric layout and mobile overflow check. The dashboard remains richer and longer than reference 11, so this is an improvement rather than a full parity claim.- The 2026-11-17 gallery follow-up uses distinct photographs in the eight-tile gallery and checks that none repeat the four room-card photos. PHP and static screenshots are `2.0-visual-fidelity/space-php-desktop.jpg`, `space-php-mobile.jpg`, `space-static-desktop.jpg`, and `space-static-mobile.jpg`; this focused pass does not establish full visual parity with reference 06.- The philosophy follow-up adds an original enso/Fuji/sakura SVG to the chef chapter. Captures: `2.0-visual-fidelity/philosophy-php-desktop.jpg`, `philosophy-php-mobile.jpg`, `philosophy-static-desktop.jpg`, and `philosophy-static-mobile.jpg`; desktop places the art beside the chef story, mobile preserves photo → story → art.
+## 2026-11-18 Omakase editorial follow-up
+
+Compared `design-references/04-omakase.png` with fresh PHP and static captures after selecting course stage 2. The selected-stage story remains interactive but is now a compact horizontal editorial panel on desktop and a shorter stacked card on mobile; its note was shortened without removing the demo/allergen disclosure. Added an original SVG landscape to the closing parchment quote strip and darkened its text for contrast. `npm run test:tokyo20` passed for PHP and Pages, including all 21 PHP and 19 static dish routes, Omakase course/photo behavior, desktop/mobile panel-height ceilings, quote-art availability and text color, plus responsive overflow checks. Screenshots reviewed: `12-php-omakase-stage-2.jpg`, `12-php-omakase-mobile.jpg`, `12-static-omakase-stage-2.jpg`, and `12-static-omakase-mobile.jpg`. Reference rhythm is closer, though the selectable course detail remains an intentional extra section absent from the reference; full-page parity, CI and public deployment are not claimed.

diff --git a/project-docs/final-modernization-report.md b/project-docs/final-modernization-report.md
@@ -391,3 +391,10 @@ Updated the PHP and GitHub Pages gallery so its eight photographs are unique and
 ## 2026-11-17 — Philosophy visual accent
 
 Added a small original SVG scene (enso, Mount Fuji and sakura) as a third editorial element in the philosophy chef chapter, with a mobile reading order that places it after the chef photo and copy. PHP and Pages route checks passed and desktop/mobile screenshots were inspected. This closes one visible art-direction gap; the broader page and remaining approved references still need review.
+## 2026-11-18 Omakase layout refinement
+
+- Kept the interactive selected-course details but reduced the duplicate feature panel to a compact editorial strip, with a shorter mobile photograph and reorganized metadata.
+- Added an original SVG parchment landscape to the Omakase closing quote. Explicit text color restores dark, readable type over the illustrated paper.
+- Added regression coverage to `tests/tokyo20-regression.cjs` for the desktop/mobile panel-height limits, served SVG, computed quote text color, and mobile overflow.
+- `php -l pages.php`, static export of 37 pages, and `npm run test:tokyo20` passed. The suite covered PHP and Pages, 21/19 dish routes, Omakase course selection and photographs, the new visual assertions, and mobile overflow across feature routes. Desktop/mobile PHP and Pages screenshots were reviewed.
+- This improves reference 04 but does not claim full pixel parity. GitHub Actions and public deployment have not yet been run for this working change.
